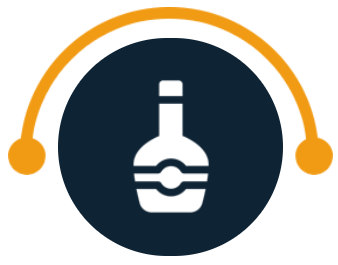
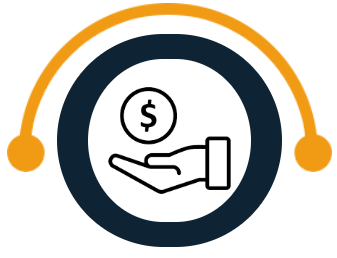
bandas changes

diff --git a/pawntrust/src/components/Footer.vue b/pawntrust/src/components/Footer.vue
@@ -17,7 +17,7 @@
         <div class="footerSubMain">
             <div class="flexStart footerDivision">
                 <div >
-                    <img src="https://pawntrust.com/wp-content/uploads/2022/10/footer-logo.png" />
+                    <img style="width:100%;" src="https://pawntrust.com/wp-content/uploads/2022/10/footer-logo.png" />
                 </div>
                 <div>
                     <span class="footerName1">© 2022 Pawn Trust. All Rights Reserved</span>
@@ -48,16 +48,41 @@
 
                 </div>
             </div>
-            <div class="footerDivision">
-                <div style="width:50%; display:flex;flex-direction:column;align-items: center;">
-                    <div style="display: flex;flex-direction: row;justify-content:space-between;">
-                        <v-icon class="socialMedia">mdi-facebook</v-icon>
-                        <v-icon class="socialMedia">mdi-google</v-icon>
+            <div class="footerDivision" style="align-items: center;justify-content: center;">
+                <div style="width:100%;">
+                    <div style="display: flex;flex-direction: row;justify-content: space-evenly;">
+                        <div>
+                            <a
+                            style="cursor: pointer;color: #FFFFFF;text-decoration: none;" 
+                            href="https://www.facebook.com/pawntrust"
+                            target="_blank"
+                            >
+                            <v-icon class="socialMedia">mdi-facebook</v-icon>
+                            </a>
+                        </div>
+                        <div>
+                            <a
+                            style="cursor: pointer;color: #FFFFFF;text-decoration: none;" 
+                            href="https://twitter.com/dinewiseinc"
+                            target="_blank"
+                            >
+                                <v-icon class="socialMedia">mdi-twitter</v-icon>
+                            </a>
+                        </div>
+                        <div>
+                            <a
+                            style="cursor: pointer;color: #FFFFFF;text-decoration: none;" 
+                            href="https://www.reddit.com/user/pawntrust"
+                            target="_blank"
+                            >
+                                <v-icon class="socialMedia">mdi-reddit</v-icon>
+                            </a>
+                        </div>
                     </div>
-                    <div style="display: flex;flex-direction: row;justify-content:space-between;">
-                        <v-icon class="socialMedia">mdi-twitter</v-icon>
+                    <!-- <div style="display: flex;flex-direction: row;justify-content:space-evenly;">
+                        <v-icon class="socialMedia">mdi-reddit</v-icon>
                         <v-icon class="socialMedia">mdi-youtube</v-icon>
-                    </div>
+                    </div> -->
                 </div>
             </div>
         </div>
@@ -69,7 +94,7 @@
 </script>
 
 <style scoped>
-@media screen and (max-width:500px) {
+@media screen and (max-width:950px) {
     .desktop{
         display: none;
     }
@@ -109,7 +134,7 @@
     }
 }
 
-@media screen and (min-width:501px) {
+@media screen and (min-width:951px) {
     .mobile{
         display: none;
     }

diff --git a/pawntrust/src/components/TopBar.vue b/pawntrust/src/components/TopBar.vue
@@ -13,12 +13,14 @@
                         color="#F19B14"
                         size="36"
                         >
-                        <v-icon
-                            small
-                            color="#FFFFFF"
-                            >
-                            mdi-email
-                        </v-icon>
+                        <v-btn icon style="cursor: pointer;" href="mailto:info@pawntrust.com">
+                            <v-icon
+                                small
+                                color="#FFFFFF"
+                                >
+                                mdi-email
+                            </v-icon>
+                        </v-btn>
                         </v-avatar>
                         <div class="emailandPhone">
                             &nbsp;<span> info@pawntrust.com</span>
@@ -30,21 +32,23 @@
                         color="#F19B14"
                         size="36"
                         >
-                            <v-icon
-                                small
-                                color="#FFFFFF"
-                                >
-                                mdi-phone
-                            </v-icon>
+                            <v-btn icon style="cursor: pointer;" href="tel:+%201%20888%20243%202680">
+                                <v-icon
+                                    small
+                                    color="#FFFFFF"
+                                    >
+                                    mdi-phone
+                                </v-icon>
+                            </v-btn>
                         </v-avatar>
                         <div style="font-size:16px; font-weight:900" class="emailandPhone">
                             <span>(888)-243-2680</span>
                         </div>
                     </div>
                     <div :class="($mq =='mobile' || $mq == 'tablet') ? 'headerAlignMobile' : 'headerAlignDesktop'">
-                        <v-icon color="#F19B14" size="40">mdi-facebook</v-icon>
-                        <v-icon color="#F19B14" size="40">mdi-twitter</v-icon>
-                        <v-icon color="#F19B14" size="40">mdi-reddit</v-icon>
+                        <v-btn icon style="cursor: pointer;" href="https://www.facebook.com/pawntrust" target="_blank"><v-icon color="#F19B14" size="40">mdi-facebook</v-icon></v-btn>
+                        <v-btn icon style="cursor: pointer;" href="https://twitter.com/dinewiseinc" target="_blank"><v-icon color="#F19B14" size="40">mdi-twitter</v-icon></v-btn>
+                        <v-btn icon style="cursor: pointer;" href="https://www.reddit.com/user/pawntrust" target="_blank"><v-icon color="#F19B14" size="40">mdi-reddit</v-icon></v-btn>
                     </div>
                     
                     <div :class="($mq =='mobile' || $mq == 'tablet') ? 'headerAlignMobile' : 'headerAlignDesktop'">

diff --git a/pawntrust/src/views/Home.vue b/pawntrust/src/views/Home.vue
@@ -61,6 +61,15 @@
                     <img
                     @click="temporaryMethod"
                     style="width:100%; height:auto;padding:10% 4%;cursor: pointer;"
+                    src = "../assets/Titlepawncompanies.png"/>
+                    <span style="font-size:1.1rem;font-weight:550; color:#0E2334">Title Pawn Companies</span>
+                    <v-divider style="border-top:3.5px solid orange; width:15%; margin:auto; margin-top:10px;margin-bottom: 20px;"></v-divider>
+                    <p style="text-align:left;">{{microlendingparagraph}}</p>
+                </div>
+                <div :class="($mq =='mobile' || $mq == 'tablet') ? 'mobileCategory' : 'desktopCategory'">
+                    <img
+                    @click="temporaryMethod"
+                    style="width:100%; height:auto;padding:10% 4%;cursor: pointer;"
                     src = "../assets/microlending.png"/>
                     <span style="font-size:1.1rem;font-weight:550; color:#0E2334">Microlending</span>
                     <v-divider style="border-top:3.5px solid orange; width:15%; margin:auto; margin-top:10px;margin-bottom: 20px;"></v-divider>
@@ -125,7 +134,8 @@ import Footer from '../components/Footer.vue';
 }
 
 .desktopCategory{
-    width:25%;
+    width:20%;
+    padding: 0% 2%;
 }
 .headerClass {
     font-size: 16px;
